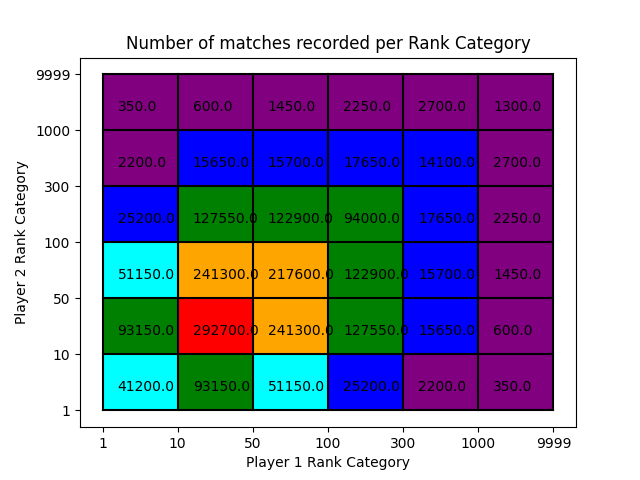
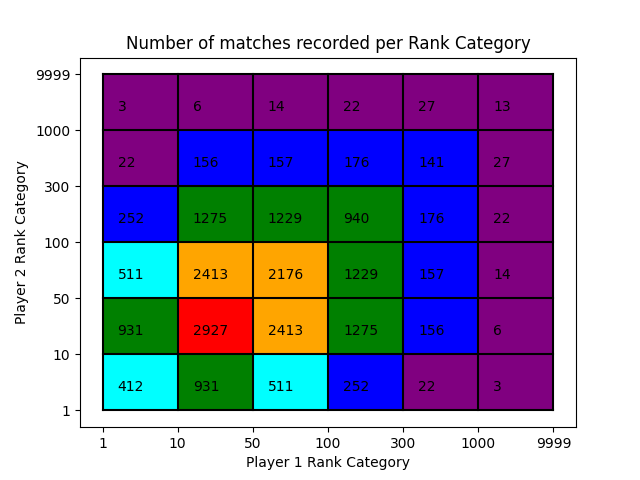
update example

diff --git a/examples/data_loading.py b/examples/data_loading.py
@@ -20,6 +20,8 @@ data_df = matches_data_loader(
 print(data_df.head())
 print(data_df.shape)
 
+print("DATA LOADED")
+
 # Categories of Ranks : 1 - 10 - 50 - 100 - 300 - 1000
 categories = [1, 10, 50, 100, 300, 1000, 9999]
 
@@ -51,6 +53,8 @@ for cat_1 in range(len(categories) - 1):
         nb_matches_lines.append(len(sub_df) / 2)
     best_ranked_player_win_percentage.append(lines)
     categories_number_of_matches.append(nb_matches_lines)
+print("Number of matches with player ranked 0:", len(data_df.loc[data_df.Ranking_1 == 0]))
+print("Number of matches with player ranked > 9999:", len(data_df.loc[data_df.Ranking_1 > 9999]))
 
 colors = ["purple", "blue", "cyan", "green", "yellow", "orange", "red"]
 fig, ax = plt.subplots()
@@ -82,7 +86,7 @@ for i, val1 in enumerate(categories_number_of_matches):
         color = colors[int(val2**0.5 / np.max(categories_number_of_matches)**0.5 * (len(colors) - 1))]
         rect = plt.Rectangle((i, j), 1, 1, fc=color)
         ax.add_patch(rect)
-        plt.text(i + 0.2, j + 0.35, np.round(val2 * 100, 2))
+        plt.text(i + 0.2, j + 0.35, int(val2))
 
 for i in range(len(categories)):
     plt.plot([i, i], [0, len(categories) - 1], c="k")
@@ -95,3 +99,5 @@ plt.ylabel("Player 2 Rank Category")
 plt.title("Number of matches recorded per Rank Category")
 plt.savefig("nb_matches.png")
 plt.show()
+
+print(np.sum(categories_number_of_matches))

diff --git a/python/data/match.py b/python/data/match.py
@@ -139,7 +139,7 @@ class Match:
         )
         w_data["last_rankings"] = [lr]
         w_data["last_ranking_points"] = [lrp]
-        l_data = self.loser.get_data_df(opponent=self.winner)
+        l_data = self.loser.get_data_df(opponent=self.winner.id)
         lr, lrp = self.loser.get_last_months_rankings(
             date=self.tournament_date, nb_months=12, day_of_month="last"
         )
